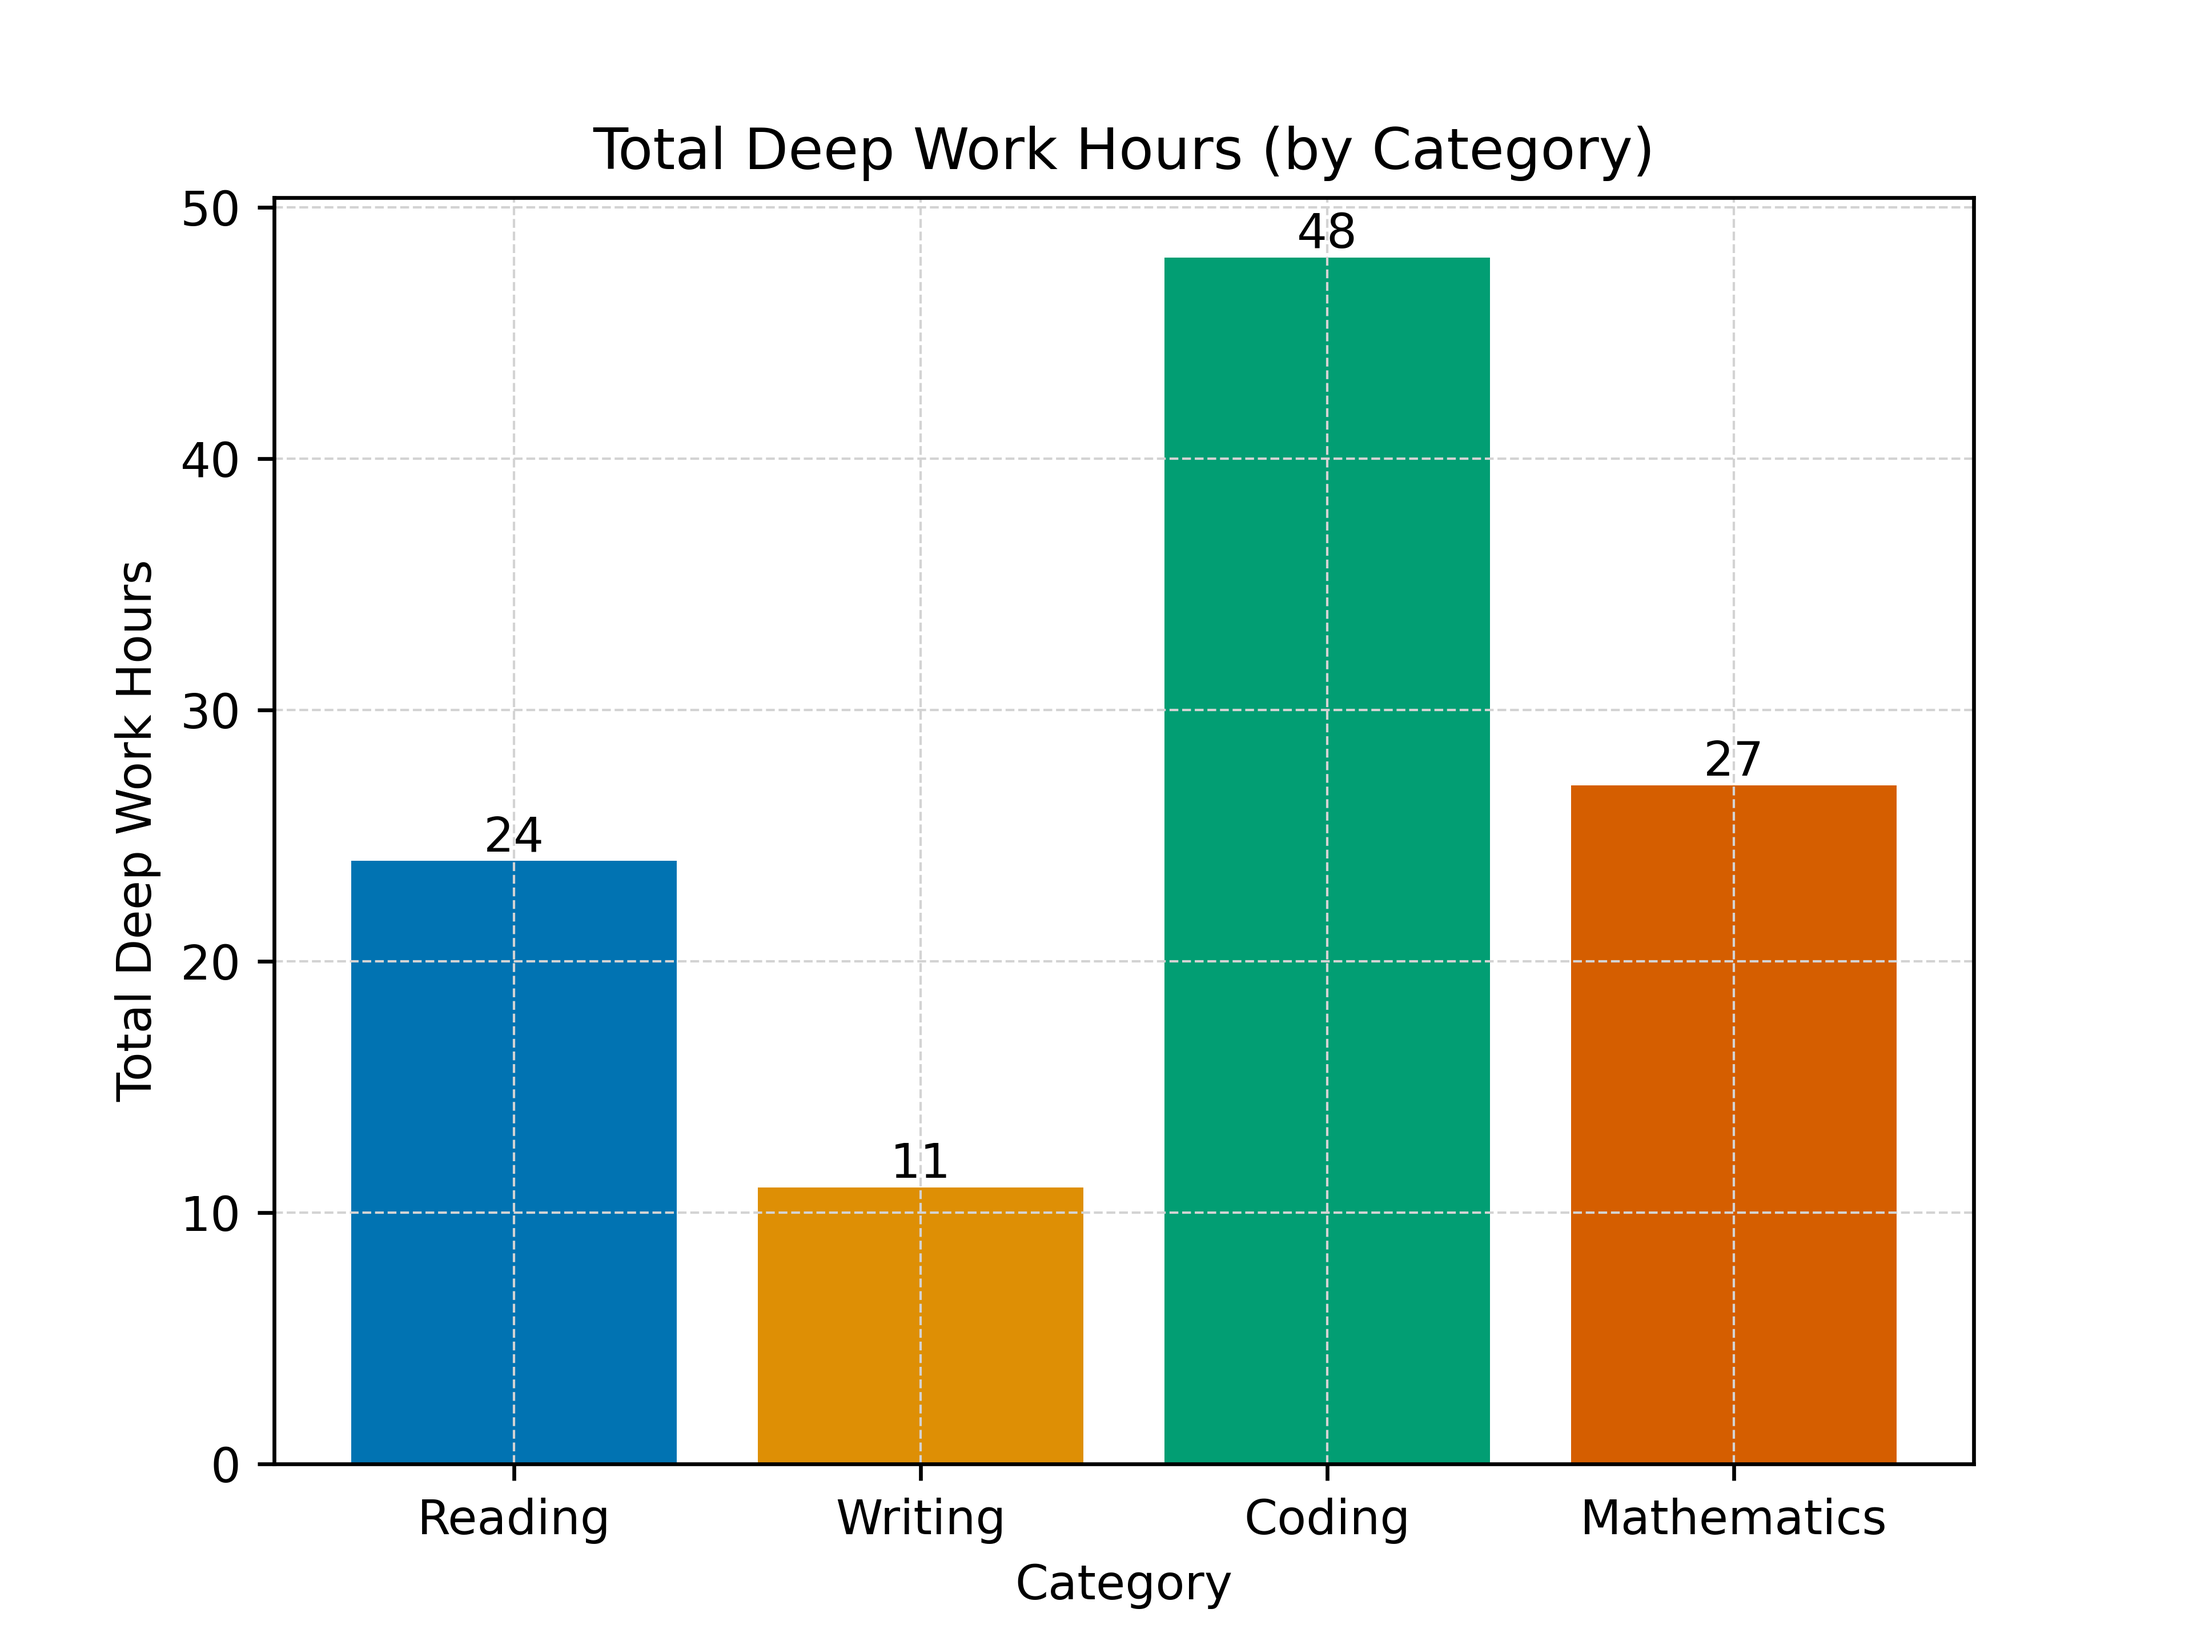
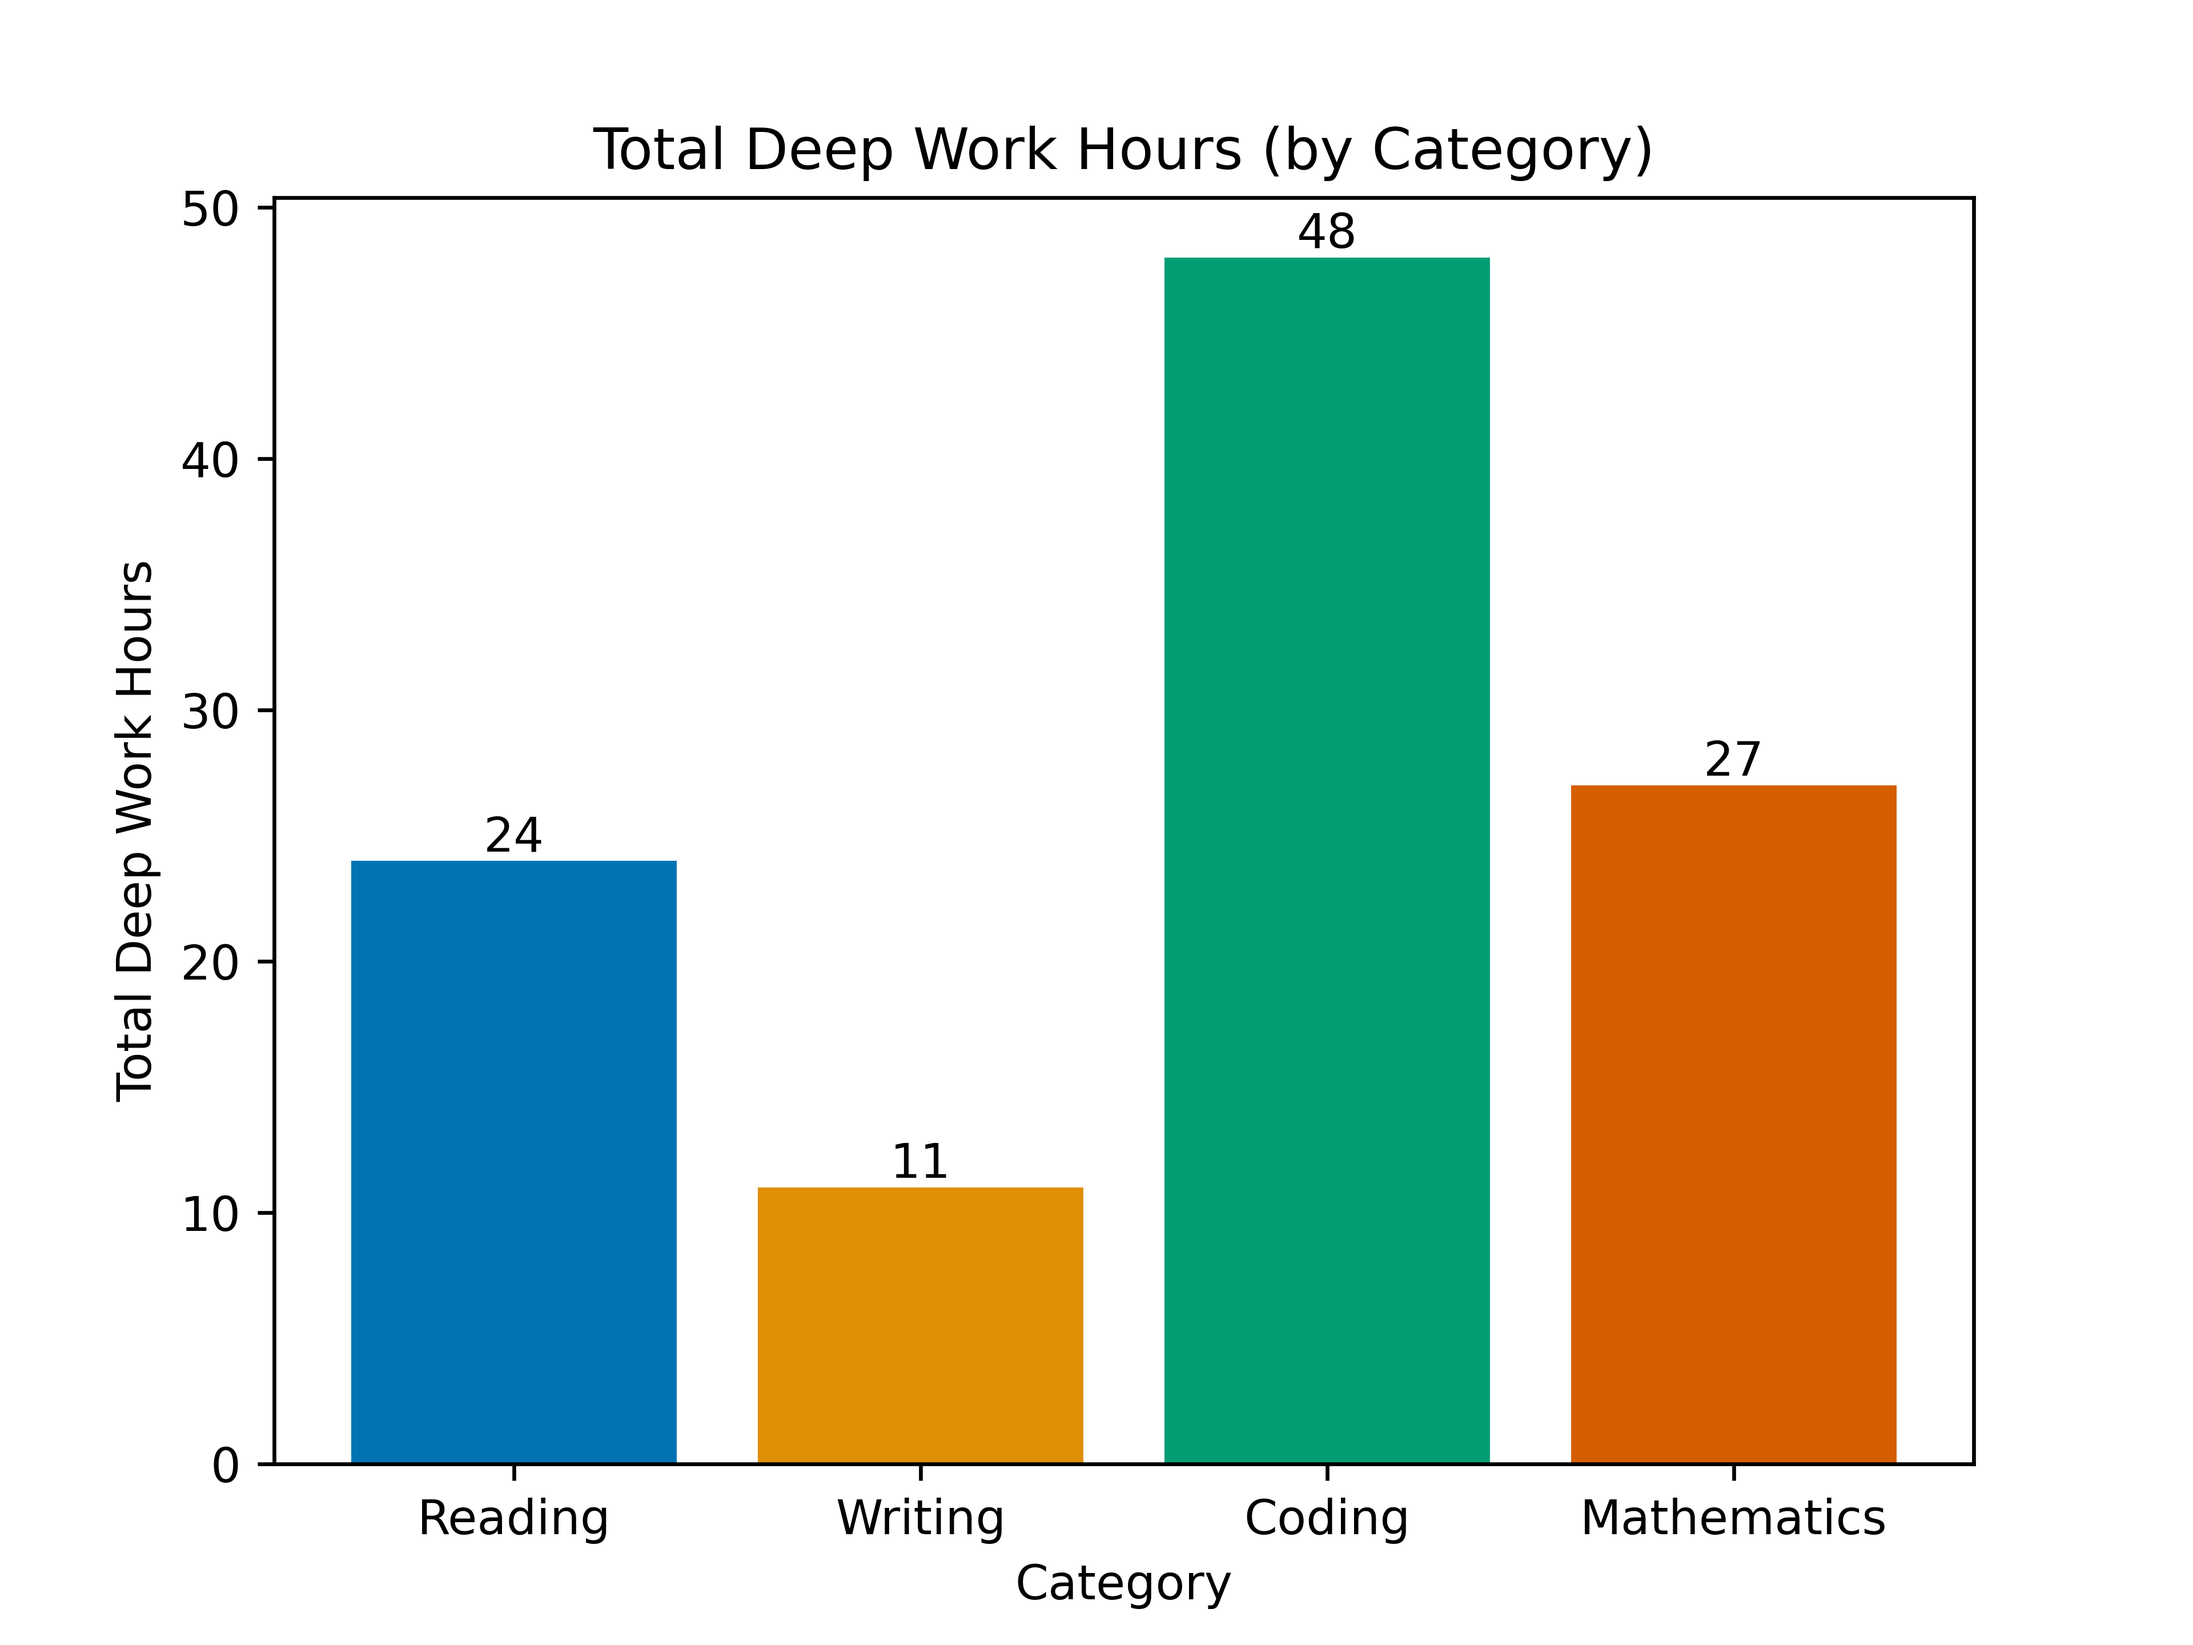
delete light grey grid

diff --git a/june_2023/update_monthly_summary.py b/june_2023/update_monthly_summary.py
@@ -104,9 +104,6 @@ def generate_charts(file_path):
     ax.set_xlabel('Category')
     ax.set_ylabel('Total Deep Work Hours')
 
-    # Add a light grey grid
-    ax.grid(color='lightgrey', linestyle='--', linewidth=0.5)
-
     # Save the bar chart as an image
     plt.savefig('figures/bar_chart.png', dpi=600)
 
